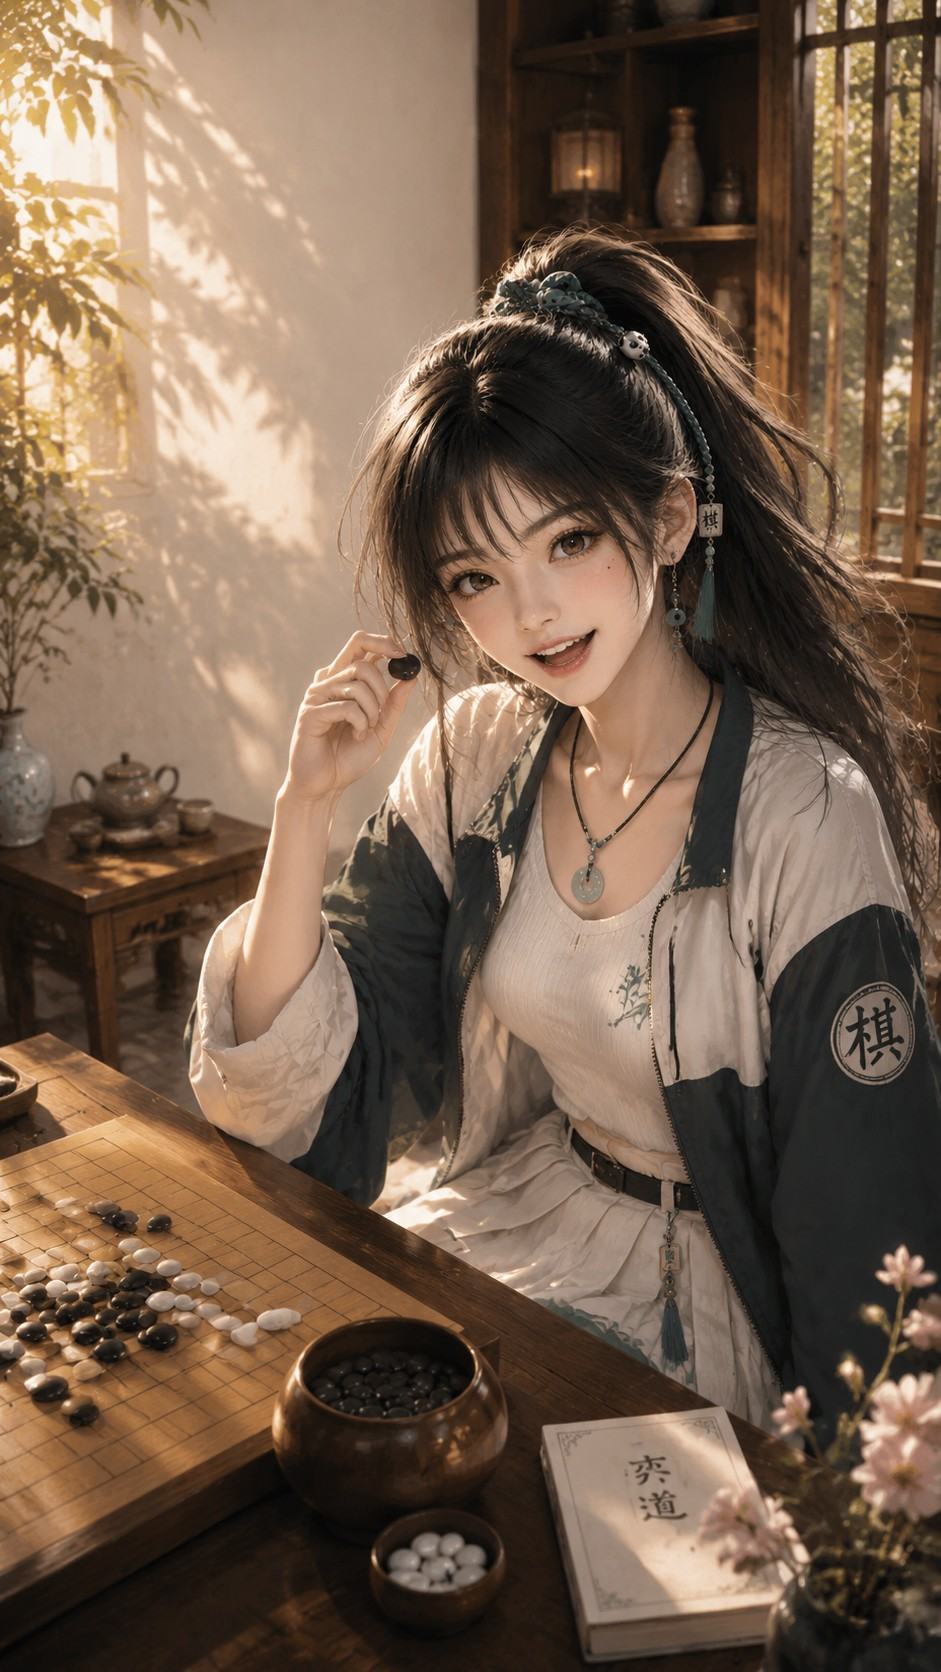
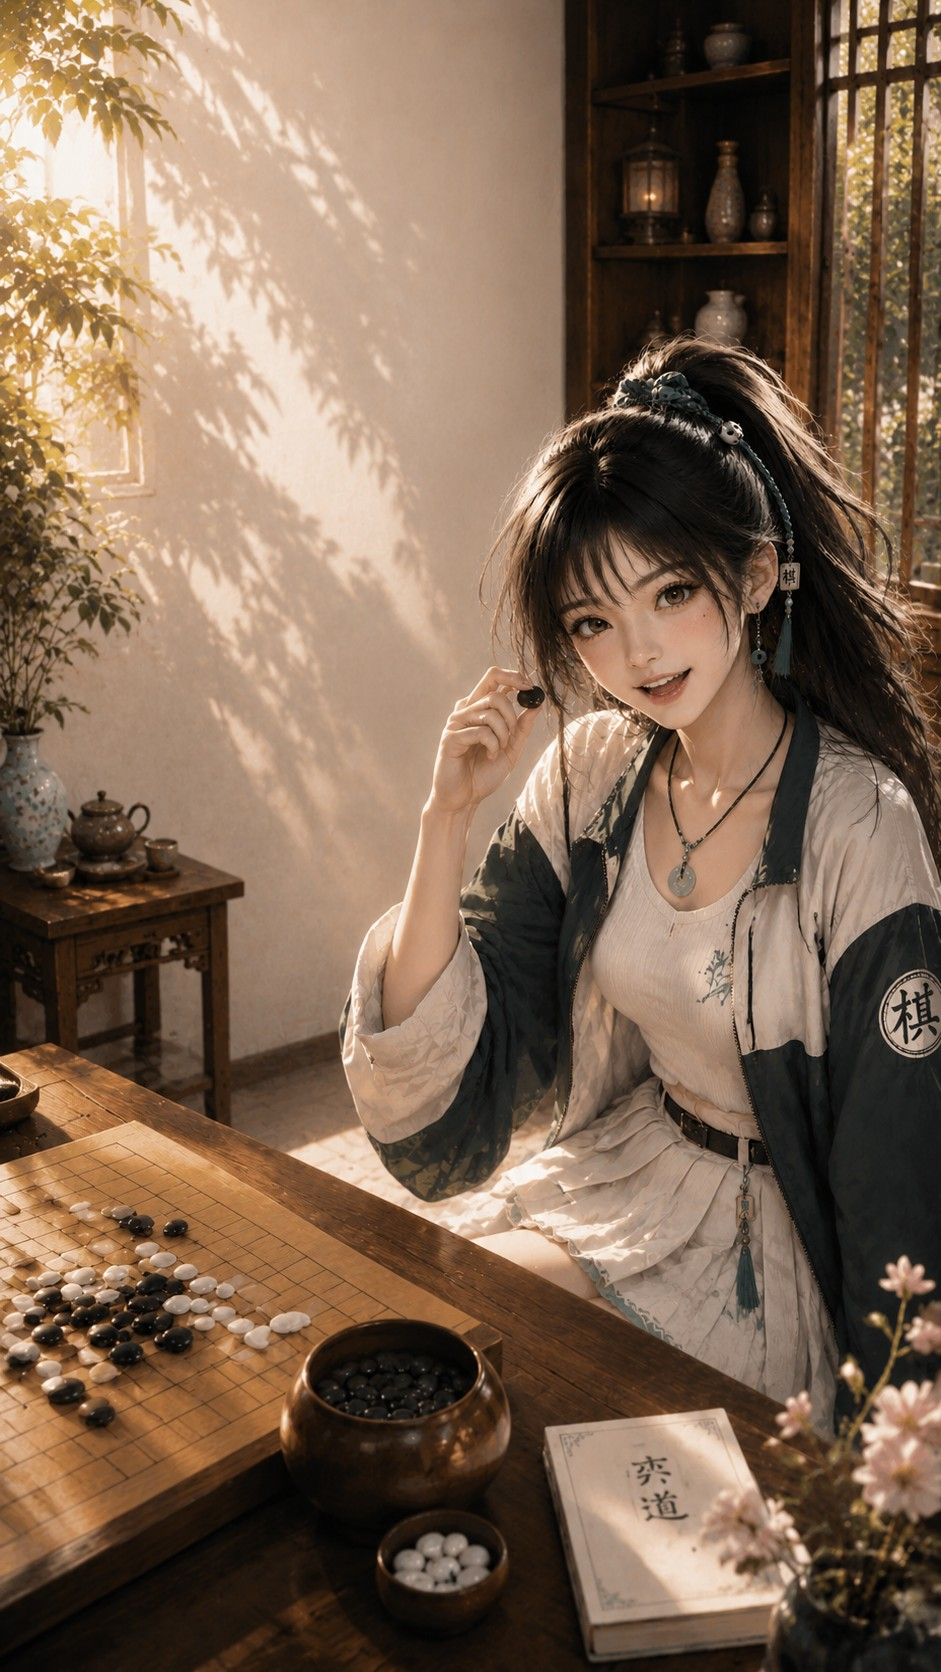
Add files via upload

diff --git a/src/components/OnlineGame.jsx b/src/components/OnlineGame.jsx
@@ -11,10 +11,14 @@ const DISCONNECT_GRACE_MS = 20000; // 对方断线后,宽限20秒再允许判负
 const WIN_REVEAL_DELAY = 1000;     // 五连产生后,先让连线动画播完,再切出结算面板(跟 PveScreen 一致)
 const TURN_SECONDS = 30;           // 每一步的倒计时,纯展示用的软提醒,不会自动判负
 
+// 文案跟每日试炼结算页(dailytrial.css 的 .result-title)共用同一套配色语义:
+// 赢=金色渐变字，输/和棋=墨色，具体颜色在 board.css 里通过 .pve-result-title.win/.lose/.draw
+// 定义，这里只保留文案，不再用内联 color——两个结算页的"赢用金色、输/和棋用墨色"这套视觉规则
+// 现在是统一的，只是联机这边字号更小以适配棋盘上方 74px 的固定高度面板。
 const RESULT_COPY = {
-  win: { title: "胜局", color: "var(--wood)" },
-  lose: { title: "败局", color: "var(--gold)" },
-  draw: { title: "和棋", color: "var(--fg)" },
+  win: { title: "胜局" },
+  lose: { title: "败局" },
+  draw: { title: "和棋" },
 };
 
 function resultDesc(outcome, reason) {
@@ -32,6 +36,7 @@ export default function OnlineGame({ roomId, myId, onExit, onMatched }) {
   const [expDelta, setExpDelta] = useState(null);
   // 乐观更新:落子瞬间先在本地显示,等服务器确认后再对齐/回滚
   const [pendingMove, setPendingMove] = useState(null); // { board, moveCountAfter }
+  const [debugError, setDebugError] = useState(null); // 临时调试用:显示 make_move 失败的具体原因
   // 对手在线状态:disconnectSince=null 表示在线;有值表示从那一刻起断线,配合宽限期显示倒计时
   const [disconnectSince, setDisconnectSince] = useState(null);
   const [now, setNow] = useState(Date.now());
@@ -354,9 +359,12 @@ export default function OnlineGame({ roomId, myId, onExit, onMatched }) {
       setPendingMove(null);
       setLastMove(null);
       hapticNotify("error");
+      // 临时调试:把具体错误原因显示出来,方便定位问题,排查完记得删掉
+      setDebugError(data?.error || error?.message || "未知错误");
       if (isSessionSupersededError(error)) handleSessionSuperseded();
       return;
     }
+    setDebugError(null);
 
     if (data.game_status === "finished") {
       if (data.winner === mySlot) hapticNotify("success");
@@ -478,7 +486,7 @@ export default function OnlineGame({ roomId, myId, onExit, onMatched }) {
           <div className="pve-result-panel">
             {result ? (
               <>
-                <h2 className="pve-result-title" style={{ color: RESULT_COPY[result.outcome].color }}>
+                <h2 className={`pve-result-title ${result.outcome}`}>
                   {RESULT_COPY[result.outcome].title}
                 </h2>
                 <p className="pve-result-desc">{resultDesc(result.outcome, result.reason)}</p>
@@ -502,6 +510,16 @@ export default function OnlineGame({ roomId, myId, onExit, onMatched }) {
               )
             )}
           </div>
+
+          {debugError && (
+            // 临时调试提示条,排查完问题后记得连同上面 debugError 相关代码一起删掉
+            <div style={{
+              background: "#fee2e2", color: "#991b1b", padding: "8px 12px",
+              borderRadius: 8, marginBottom: 8, fontSize: 13, textAlign: "center",
+            }}>
+              落子失败:{debugError}
+            </div>
+          )}
 
           <Board
             board={board2D}

diff --git a/src/components/PveScreen.jsx b/src/components/PveScreen.jsx
@@ -12,10 +12,12 @@ import { isInTelegram, useTelegramBackButton, hapticNotify, confirmDialog } from
 const WIN_REVEAL_DELAY = 1000;
 const DRAW_REVEAL_DELAY = 400;
 
+// 配色语义跟每日试炼结算页、联机对局结算面板统一:赢=金色渐变字，
+// 输/和棋=墨色，颜色规则定义在 board.css 的 .pve-result-title.win/.lose/.draw。
 const RESULT_COPY = {
-  win: { title: "胜局", desc: "五子连珠,漂亮的一局。", color: "var(--wood)" },
-  lose: { title: "败局", desc: "差一点,再来一局找回来。", color: "var(--gold)" },
-  draw: { title: "和棋", desc: "棋盘落满,不分胜负。", color: "var(--fg)" },
+  win: { title: "胜局", desc: "五子连珠,漂亮的一局。" },
+  lose: { title: "败局", desc: "差一点,再来一局找回来。" },
+  draw: { title: "和棋", desc: "棋盘落满,不分胜负。" },
 };
 
 // 思考延迟按难度区分:困难档想得更久一点、简单档更快,是白送的一个
@@ -284,7 +286,7 @@ export default function PveScreen({ onExit, onExitHome }) {
           <div className="pve-result-panel">
             {result && (
               <>
-                <h2 className="pve-result-title" style={{ color: RESULT_COPY[result].color }}>
+                <h2 className={`pve-result-title ${result}`}>
                   {RESULT_COPY[result].title}
                 </h2>
                 <p className="pve-result-desc">{RESULT_COPY[result].desc}</p>

diff --git a/src/styles/board.css b/src/styles/board.css
@@ -430,11 +430,26 @@
   margin-bottom: var(--space-3);
 }
 
+/* 标题字体/配色语义跟 dailytrial.css 的 .result-title 保持一致(衬线字 +
+   赢=金色渐变字/输和和棋=墨色),只是字号、字距按这里 74px 高度的面板压缩过,
+   不能照搬试炼页那个 52px 大字——面板高度是写死的硬约束,加大字号会撑破它。 */
 .pve-result-title {
   margin: 0;
-  font-size: 20px;
+  font-family: var(--font-display), serif;
+  font-size: 21px;
   font-weight: 700;
+  letter-spacing: 3px;
   line-height: 1.2;
+}
+.pve-result-title.win {
+  background: linear-gradient(160deg, #FCE8B0 0%, var(--gold) 45%, #8A5A16 100%);
+  -webkit-background-clip: text;
+  background-clip: text;
+  -webkit-text-fill-color: transparent;
+}
+.pve-result-title.lose,
+.pve-result-title.draw {
+  color: var(--ink-token);
 }
 
 .pve-result-desc {
